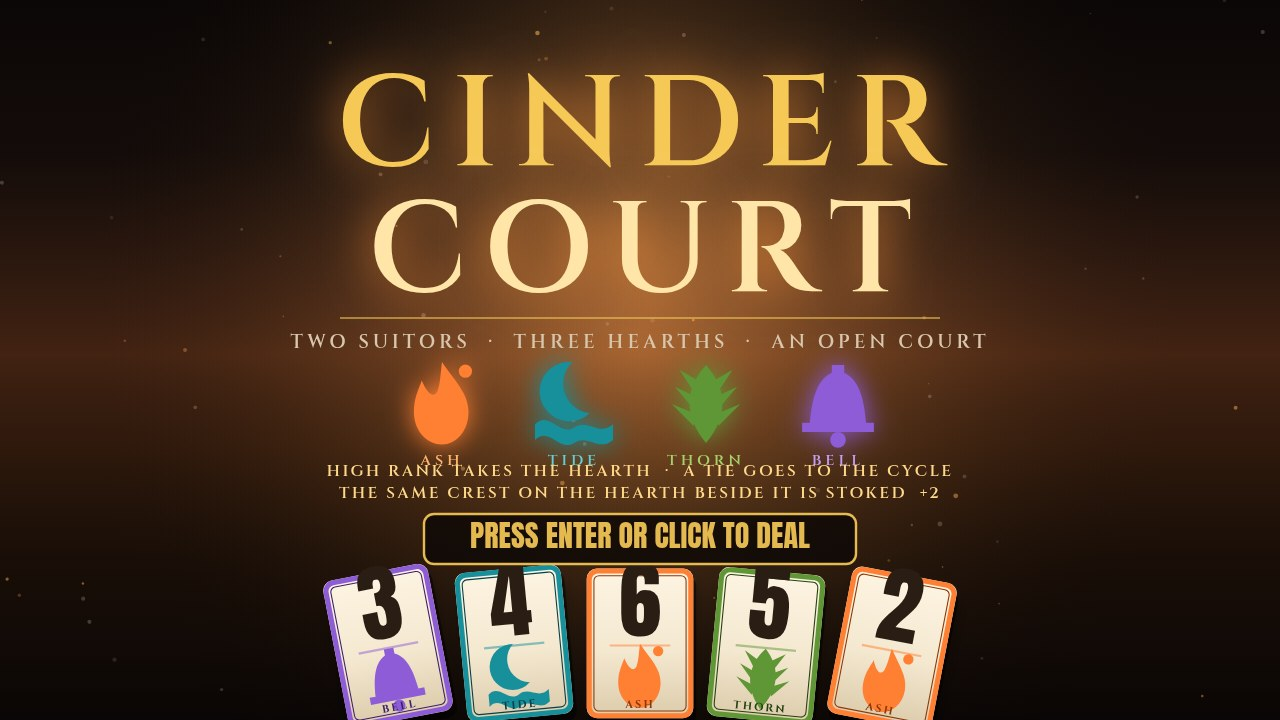
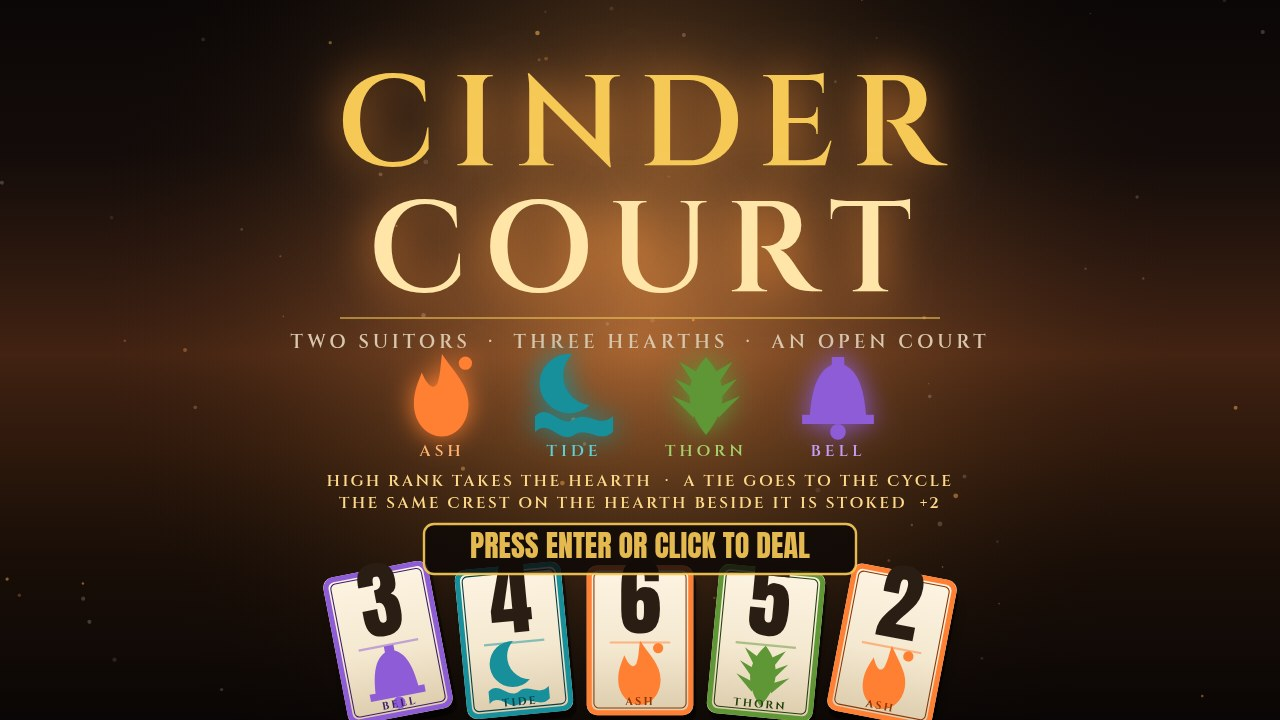
Tighten the title's vertical rhythm and recapture
The crest name labels were colliding with the rules lines at full size,
which showed up as a smear in the judge's thumbnail of the cover. Move
the crest row up, part the two rules lines from it, drop the deal prompt
and the fanned hand clear of both, and retake all four shots.

diff --git a/game/src/screens.js b/game/src/screens.js
@@ -49,21 +49,21 @@ export function drawTitleScreen(ctx, scene) {
   const spacing = 132;
   CREST_IDS.forEach((id, i) => {
     const cx = VIEW.w / 2 + (i - 1.5) * spacing;
-    const cy = 404;
+    const cy = 396;
     ctx.save();
     ctx.translate(cx, cy);
     ctx.shadowColor = CRESTS[id].color;
     ctx.shadowBlur = 26;
     drawCrest(ctx, id, 78, CRESTS[id].color);
     ctx.restore();
-    cinzel(ctx, 15, CRESTS[id].bright, { spacing: 4 });
-    ctx.fillText(CRESTS[id].name, cx, cy + 58);
+    cinzel(ctx, 16, CRESTS[id].bright, { spacing: 4 });
+    ctx.fillText(CRESTS[id].name, cx, cy + 56);
     resetSpacing(ctx);
   });
 
   cinzel(ctx, 16, '#ffd98a', { spacing: 2.4 });
-  ctx.fillText('HIGH RANK TAKES THE HEARTH  ·  A TIE GOES TO THE CYCLE', VIEW.w / 2, 472);
-  ctx.fillText('THE SAME CREST ON THE HEARTH BESIDE IT IS STOKED  +2', VIEW.w / 2, 494);
+  ctx.fillText('HIGH RANK TAKES THE HEARTH  ·  A TIE GOES TO THE CYCLE', VIEW.w / 2, 482);
+  ctx.fillText('THE SAME CREST ON THE HEARTH BESIDE IT IS STOKED  +2', VIEW.w / 2, 504);
   resetSpacing(ctx);
 
   // a real hand, fanned across the foot of the court
@@ -71,7 +71,7 @@ export function drawTitleScreen(ctx, scene) {
     const spread = i - (TITLE_FAN.length - 1) / 2;
     const view = {
       x: VIEW.w / 2 + spread * 126,
-      y: 646 + Math.sin(scene.time * 1.4 + i) * 3,
+      y: 643 + Math.sin(scene.time * 1.4 + i) * 3,
       scale: 0.72,
       rot: spread * 0.095,
       face: 1,
@@ -82,9 +82,9 @@ export function drawTitleScreen(ctx, scene) {
   const pulse = 0.62 + 0.38 * (1 + Math.sin(scene.time * 3)) * 0.5;
   ctx.save();
   ctx.globalAlpha = pulse;
-  plate(ctx, VIEW.w / 2 - 216, 514, 432, 50, { fill: 'rgba(12,8,6,0.88)', stroke: INK.gold, lineWidth: 2.4, radius: 10 });
+  plate(ctx, VIEW.w / 2 - 216, 524, 432, 50, { fill: 'rgba(12,8,6,0.88)', stroke: INK.gold, lineWidth: 2.4, radius: 10 });
   anton(ctx, 30, INK.gold);
-  ctx.fillText('PRESS ENTER OR CLICK TO DEAL', VIEW.w / 2, 540);
+  ctx.fillText('PRESS ENTER OR CLICK TO DEAL', VIEW.w / 2, 550);
   ctx.restore();
 }
 
